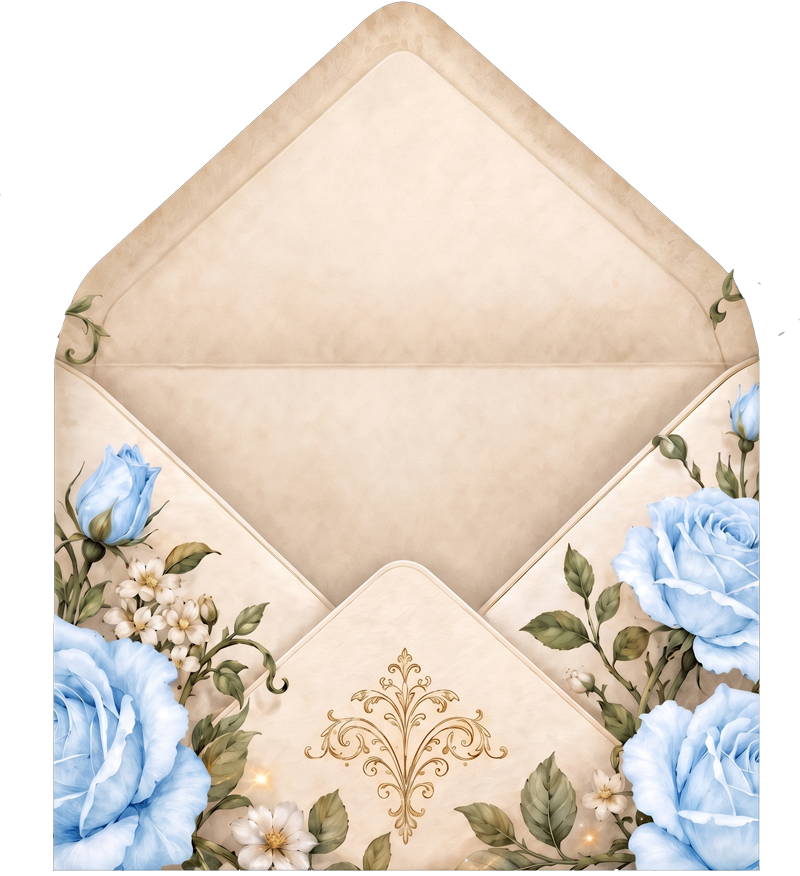
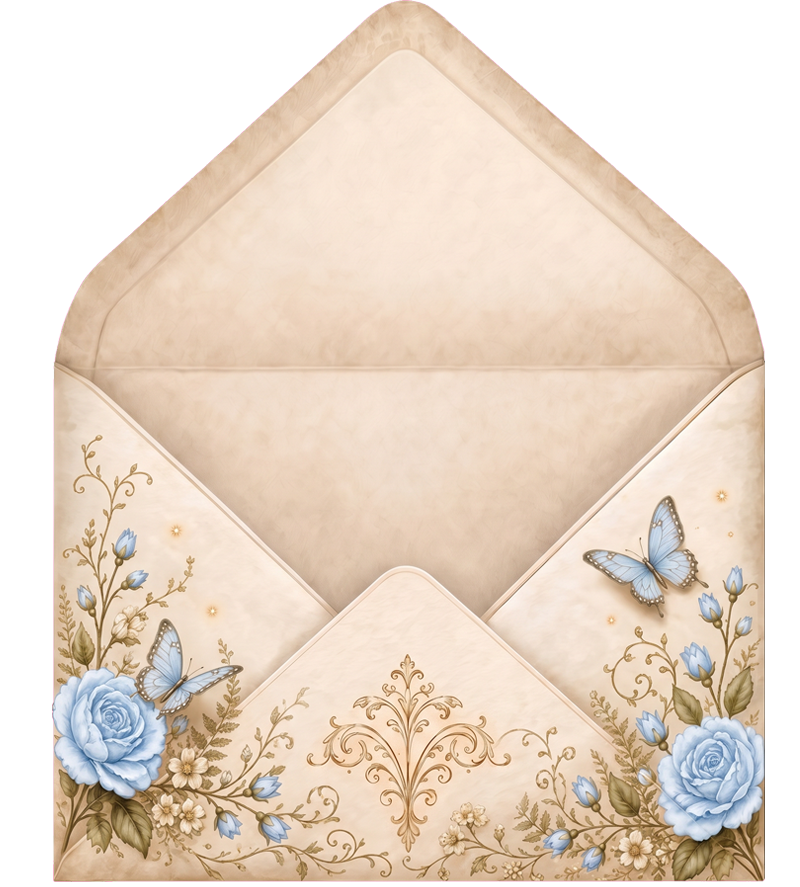
feat(blue-butterfly): bolsillo definitivo de Abraham (arte estilo cerrado 800x887, mariposas posadas) + carta mas chica (scale 1.02->0.95) y mas arriba (+32px de subida) + bolsillo scale 1.38 - feedback de revision en vivo

diff --git a/src/components/templates/BlueButterflyTemplate.tsx b/src/components/templates/BlueButterflyTemplate.tsx
@@ -459,7 +459,7 @@ export default function BlueButterflyTemplate({
               id="innerCard"
               className={`absolute left-4 right-4 top-4 bottom-4 bg-[#FFFEFC] rounded-xl p-5 flex flex-col items-center justify-center text-center transform border border-[#D8B772]/60 transition-[transform,box-shadow] duration-[900ms] [transition-timing-function:cubic-bezier(0.22,1,0.36,1)] ${
                 isLetterOut
-                  ? "-translate-y-20 sm:-translate-y-32 md:-translate-y-36 lg:-translate-y-44 scale-[1.02] z-25 shadow-2xl"
+                  ? "-translate-y-28 sm:-translate-y-40 md:-translate-y-44 lg:-translate-y-52 scale-[0.95] z-25 shadow-2xl"
                   : "z-10 translate-y-0 shadow-lg"
               }`}
             >
@@ -485,8 +485,10 @@ export default function BlueButterflyTemplate({
                 con crossfade breve al abrir (sin corte seco). El conjunto
                 reacciona mientras la carta sale: baja, se desenfoca 1px y
                 baja a 0.9 de opacidad (profundidad). El bolsillo es el arte
-                vertical de Abraham (800x876) con scale 1.28 en su <img> para
-                igualar el ancho visible del sobre cerrado (5:4) */}
+                de Abraham estilo cerrado (800x887) con scale 1.38 en su <img>
+                para igualar el ancho visible del sobre cerrado (5:4); la
+                carta termina en scale 0.95 y subida extra (feedback de
+                Abraham 2026-10-22: el papel se veia grande y bajo) */}
             <div
               className={`absolute inset-0 z-20 pointer-events-none transition-transform duration-[900ms] [transition-timing-function:cubic-bezier(0.22,1,0.36,1)] ${
                 isLetterOut ? "translate-y-2.5" : ""
@@ -502,7 +504,7 @@ export default function BlueButterflyTemplate({
                 <img
                   src="/assets/template-butterfly/sobre-carta-base.webp"
                   alt="Bolsillo del sobre"
-                  className={`absolute inset-0 w-full h-full object-contain scale-[1.28] transition-opacity duration-200 ${
+                  className={`absolute inset-0 w-full h-full object-contain scale-[1.38] transition-opacity duration-200 ${
                     isEnvelopeOpen ? "opacity-100" : "opacity-0"
                   }`}
                 />
